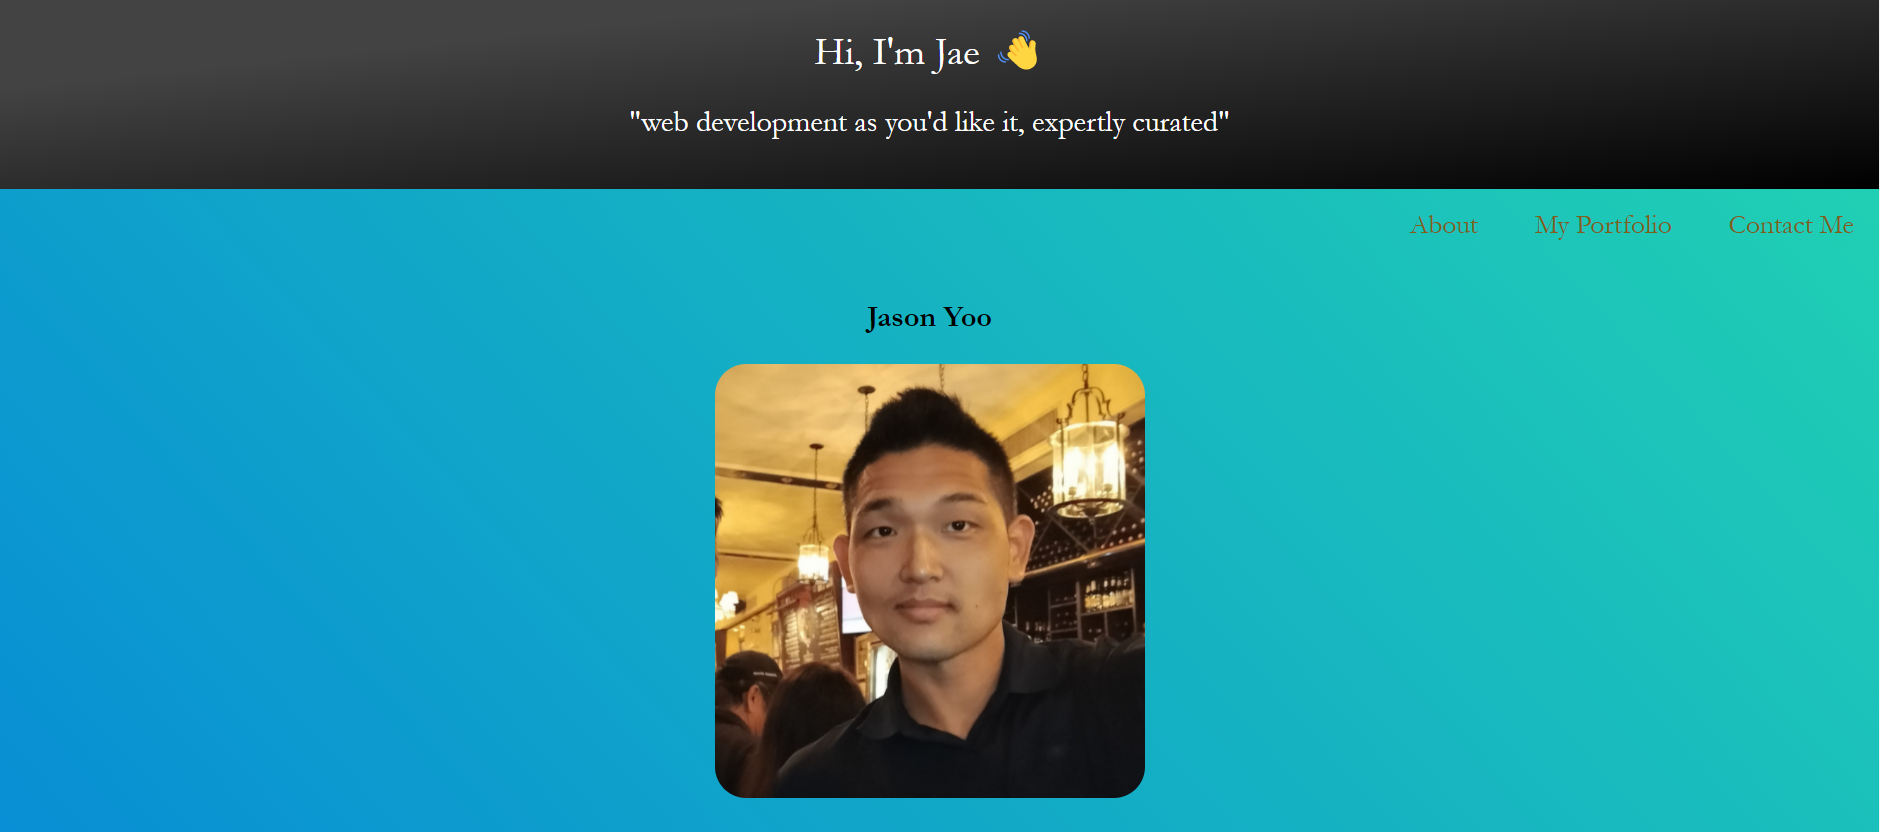
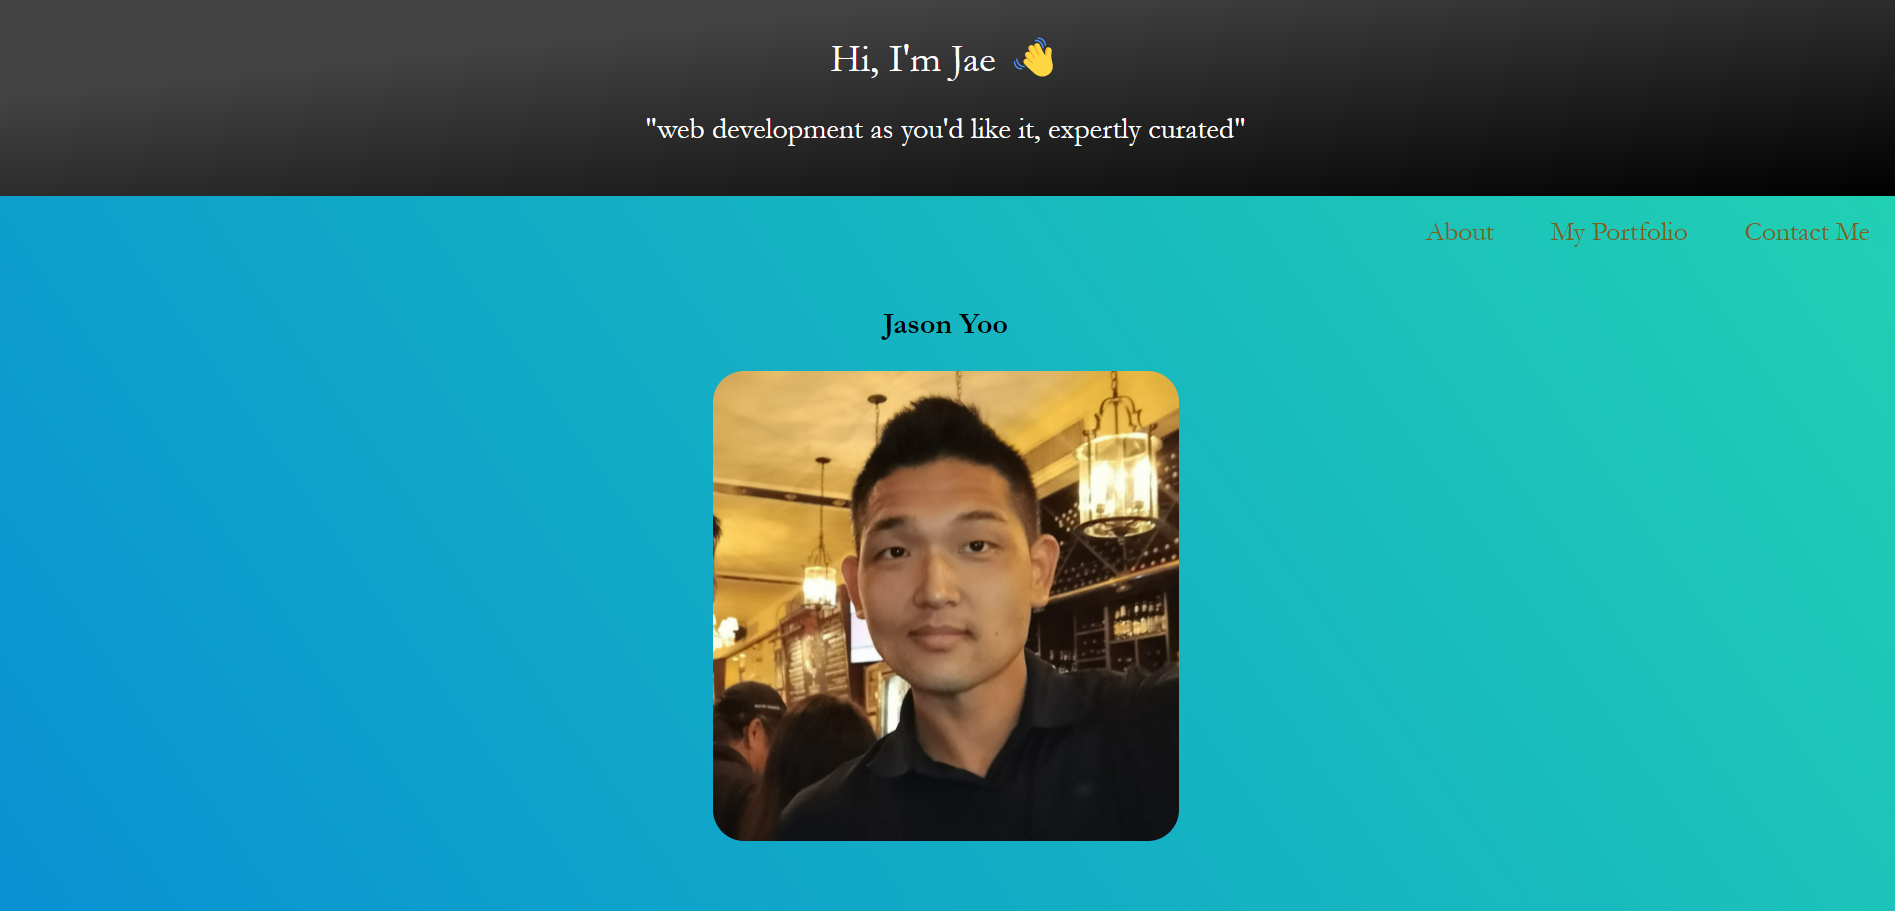
Updated HTML, CSS, Readme

diff --git a/index.html b/index.html
@@ -19,13 +19,13 @@
     <nav>
         <ul>
             <li>
-                <a href="#about-me" alt="about me" title="about me">About</a>
+                <a href="#about-me" alt="about me" title="This links to">About</a>
             </li>
             <li>
-                <a href="#works" alt="link to portfolio" title="link to portfolio">My Portfolio</a>
+                <a href="#works" alt="link to portfolio" title="This links to">My Portfolio</a>
             </li>
             <li>
-                <a href="#contact-me" alt="contact Jason Yoo" title="contact Jason Yoo">Contact Me</a>
+                <a href="#contact-me" alt="contact Jason Yoo" title="This links to">Contact Me</a>
             </li>
         </ul>
     </nav>
@@ -38,7 +38,7 @@
             <img src="images/JasonYoo.jpg" alt="Photo of Jason Yoo" title="Photo of Jason Yoo" id="profile-image">
 
             <p>
-             Does your business need an online presence? Are you unsatisfied with your current website? <br> Jason Yoo your friendly expert web developer is here to meet your business needs.
+             Hi! My name is Jason Yoo. I've spent most of my life in Southern California. I currently reside in Orange County, CA. I am a dedicated and highly motivated individual who is working towards successfully entering into the expansive field of web development. Please join me as I journey into the next chapter of my most unordinary life. 
             </p>
 
     </main>
@@ -46,41 +46,46 @@
     <!-- works class with image links -->
     <section id="works">
     <!-- card class with three projects examples with imgs as links -->
-            <div class="card firstproject">
+        <h2>My Portfolio</h2>
+            <div class="firstproject">
                 <h3>Green Bay <span id="yellow">Packers Fan Page</span></h3>
                 <br>
-                <a href="https://jasonjayoo.github.io/mini-project-1/" alt="Green Bay Packers Fan Site" Title="Green Bay Packers Fan Site"> 
-                <img src="images/GreenBayPackersFanWebpage.png" alt="Green Bay Packers Fan Page" title="Green Bay Packers Fan Page">
+                <a href="https://jasonjayoo.github.io/mini-project-1/" alt="Green Bay Packers Fan Site" Title="This is a link to " target="_blank"> 
+                <img src="images/GreenBayPackersFanWebpage.png" alt="Green Bay Packers Fan Page" title="please click this image to go to the">
                 </a>
                 <h5>(try clicking the image)</h5>
             </div>
         
-            <div class="card">
-                <h3>UCI Full Stack Experience</h3>
-                <a href="https://jasonjayoo.github.io/Homework-1/" alt="UCI Full Stack Experience" Title="UCI Full Stack Experience">
-                <img src="images/UCIFullstackexperience.png" alt="UCI Full Stack Experience" title="UCI Full Stack Experience">
-                </a>
-                <h5>(try clicking the image)</h5>
-            </div>
 
-            <div class="card">
-                <h3>Curien</h3>
-                <a href="https://jasonjayoo.github.io/curienjs/" alt="curienllc.com" Title="curienllc.com">
-                <img src="images/curien.png" alt="curien" title="curien">
-                </a>
-                <h5>(try clicking the image)</h5>
+            <div class="small-projects">
+                <div class="card">
+                    <h3>UCI Full Stack Experience</h3>
+                    <a href="https://jasonjayoo.github.io/Homework-1/" alt="UCI Full Stack Experience" Title="This is an example of my" target="_blank">
+                    <img src="images/UCIFullstackexperience.png" alt="UCI Full Stack Experience" title="please click this image to go to the">
+                    </a>
+                    <h5>(try clicking the image)</h5>
+                </div>
+
+                <div class="card">
+                    <h3>Curien</h3>
+                    <a href="https://jasonjayoo.github.io/curienjs/" alt="curienllc.com" Title="This is a link to" target="_blank">
+                    <img src="images/curien.png" alt="curien webpage" title="please click this image to go to the">
+                    </a>
+                    <h5>(try clicking the image)</h5>
+                </div>
             </div>
+           
 
     </section>
 
     <!-- footer with contact links -->
-    <footer id="contact-me" alt="Contact Jason Yoo" title="Contact Jason Yoo">
+    <footer id="contact-me" alt="Contact Jason Yoo" title="I can be contacted at my email address or linkedin provided below">
 
             <h3>Contact Jason Yoo</h3>
     <!-- customized coloring for email and linkedin links -->
             <ul>
                 <li>
-                    <a href="mailto: jasonjayoo@outlook.com"><span id="yellow">Email</span></a>
+                    <a href="mailto:jasonjayoo@outlook.com"><span id="yellow">Email</span></a>
                 </li>
                 <br>
                 <li>

diff --git a/style.css b/style.css
@@ -98,58 +98,88 @@ main h2 {
 }
 
 main #profile-image {
-
     border-radius: 25px;
     margin-bottom: 1.5rem;
 }
 
 main p {
-
+    width: 50%;
     text-align: center;
     font-size: 20px;
     margin-bottom: 2rem;
-    padding-bottom: 10rem;
+    padding-bottom: 8rem;
+    padding-top: 2rem;
 
 }
 
 /* works section with three projects / links */
-section {
+section h2 {    
     display: flex;
-    flex-flow: row wrap;
-    align-items: center;
+    /* flex-flow: column wrap;
+    align-items: center; */
     justify-content: center;
-    align-content: center;
-    font-family: Georgia, Helvetica, Tahoma, sans-serif;
+    /* align-content: center; */
+    font-family: Garamond, Tahoma, sans-serif;
+    padding-bottom: 30px;
+    text-decoration: underline black;
 }
 
-#works {
+.firstproject {
     display: flex;
-    column-gap: 20px;
-    row-gap: 20px;
-    flex: 0 0 250px;
+    width: 60vh;
+    flex-direction:column;
+    justify-content: center;
+    align-items: center;
+    border: 2px solid black;
+    border-radius: 20px;
+    font-family: Garamond, Tahoma, sans-serif;
+    padding: 20px;
+    /* flex: 0 0 200px;  */
+    margin: 0 auto;
+}
+
+.firstproject img {
+    border-radius: 10px;
 }
 
 .card {
     display:flex;
     flex-direction:column;
-    justify-content: baseline;
+    justify-content: center;
     align-items: center;
-    border: 1px solid black;
+    border: 2px solid black;
     border-radius: 20px;
     font-family: Garamond, Tahoma, sans-serif;
     padding:20px;
-
-}
-
-.firstproject {
-    flex: 0 0 300px;
 }
 
 .card img {
     border-radius: 10px;
 }
 
-.card h3 {
+/* .firstproject {
+    display: flex;
+    max-height: 475px;
+    /* max-width: 30%; */
+    /* flex: 0 0 200px; 
+    margin: 0 auto;
+} */ */
+
+.firstproject h3 {
+    padding-bottom: 0;
+}
+
+.small-projects {
+    display: flex;
+    justify-content: center;
+    column-gap: 20px;
+    row-gap: 20px;
+    flex: 0 0 250px;
+    padding-top: 40px;
+}
+
+
+.small-projects h3 {
     padding-bottom: 1rem;
     text-align: center;
 }
@@ -203,7 +233,7 @@ footer #green {
     color: #2eff05;
 }
 
-@media screen and (max-width: 825px){
+@media screen and (max-width: 800px){
     header {
         font-size: 80%;
     }
@@ -213,24 +243,35 @@ footer #green {
         justify-content: center;
     }
 
-    img {
-        width: 45vh;
+    main img{
+        width: 50vh;
+    }
+
+    .card img {
+        width: 40vh;
       }
-    
+
+    .firstproject img{
+        width: 50vh
+    }
+
+    .firstproject {
+        padding: 18px;
+        font-size: 80%;
+        width: 55vh;
+        flex: 0 1 200px;
+    }
+
     .card {
         padding: 18px;
         font-size: 80%;
         flex: 0 1 200px
     }
-
-      .project1 {
-        flex: 0 1 275px;
-    }
 }
 
-@media screen and (max-width: 565px){
+@media screen and (max-width: 630px){
     header {
-        font-size: 60%;
+        font-size: 70%;
     }
 
     nav {
@@ -238,42 +279,104 @@ footer #green {
         justify-content: center;
     }
 
-    img {
-        width: 35vh;
+    main img{
+        width: 50vh;
+    }
+
+    .card img {
+        width: 25vh;
       }
-    
+
+    .firstproject img{
+        width: 30vh
+    }
+
+    .firstproject {
+        padding: 12px;
+        font-size: 70%;
+        width: 45vh;
+        flex: 0 1 200px;
+    }
+
     .card {
-        padding: 10px;
+        padding: 12px;
         font-size: 60%;
         flex: 0 1 150px
     }
 
-      .project1 {
-        flex: 0 1 250px;
-    }
 }
 
-@media screen and (max-width: 300px){
+@media screen and (max-width: 400px){
     header {
         font-size: 50%;
     }
 
     nav {
-        font-size: 15%;
+        font-size: 50%;
         justify-content: center;
     }
 
-    img {
+    main img{
+        width: 35vh;
+    }
+
+    .card img {
         width: 20vh;
       }
-    
+
+    .firstproject img{
+        width: 25vh
+    }
+
+    .firstproject {
+        padding: 8px;
+        font-size: 60%;
+        width: 30vh;
+        flex: 0 2 100px;
+    }
+
       .card {
-        padding: 1px;
-        font-size: 35%;
+        padding: 7px;
+        font-size: 50%;
         flex: 0 2 100px
     }
 
-      .project1 {
-        flex: 0 2 200px;
+}
+
+@media screen and (max-width: 325px){
+
+    header {
+        font-size: 45%;
     }
+
+    nav {
+        font-size: 45%;
+        justify-content: center;
+    }
+
+    main img{
+        width: 30vh;
+    }
+
+    .card img {
+        width: 15vh;
+      }
+
+    .firstproject img{
+        width: 20vh
+    }
+
+    .firstproject {
+        padding: 6px;
+        font-size: 50%;
+        width: 25vh;
+        flex: 0 3 100px;
+    }
+
+      .card {
+        padding: 5px;
+        font-size: 40%;
+        flex: 0 3 100px
+    }
+
 }

diff --git a/README.md b/README.md
@@ -10,6 +10,12 @@ Even numbered week homework assignment. Created html and css from scratch.
 
 <br> 
 
+### Credit:
+
+- I would like to thank Mr. <strong>Jeoffrey Batangan</strong> for his stellar contribution to the development of the CSS on my portfolio. Thank you for taking me from "hacking" my page to implementing flexbox in order to modernize and streamline the website. I have learned much!
+
+<br>
+
 ### Criteria's that were met included: 
 
 <br>
